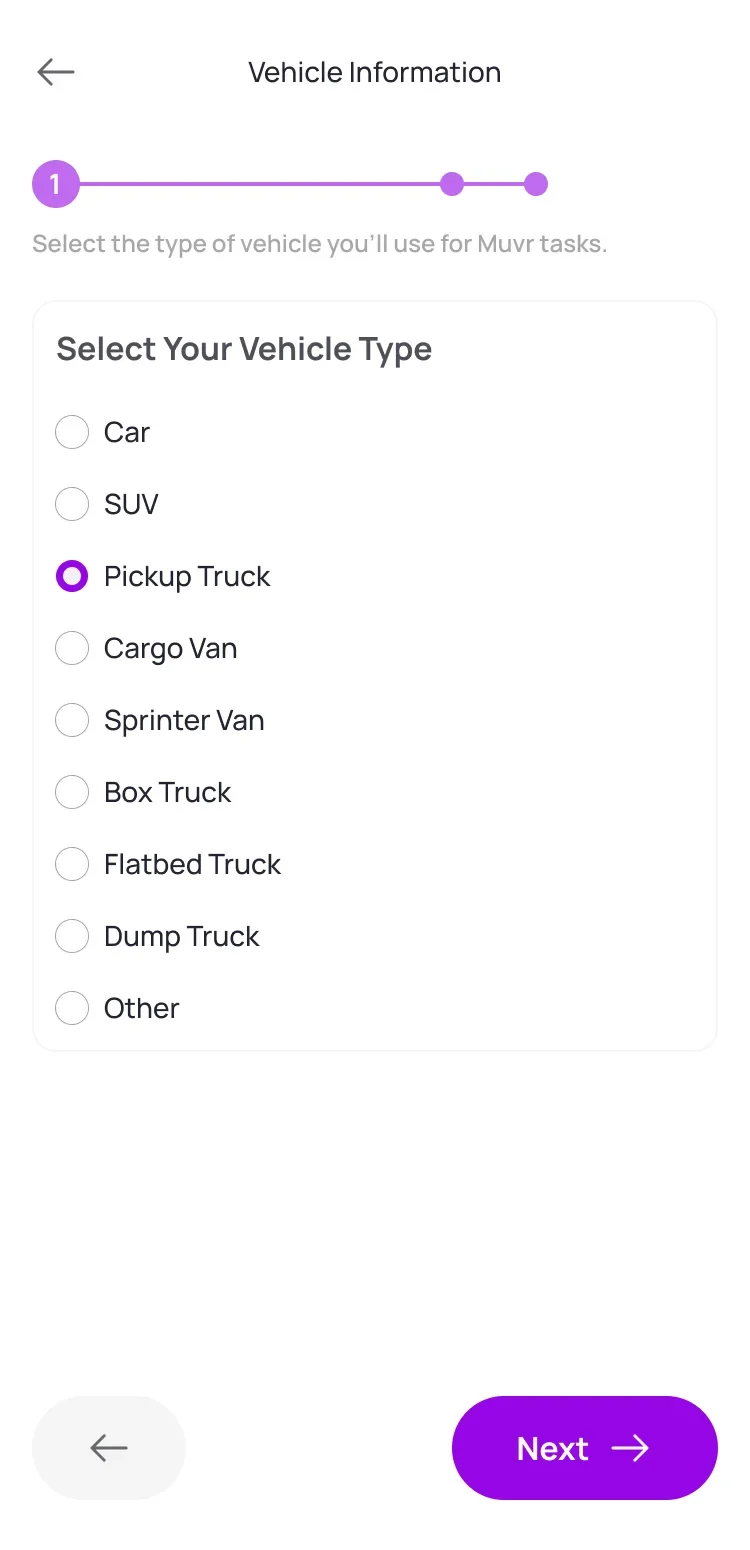
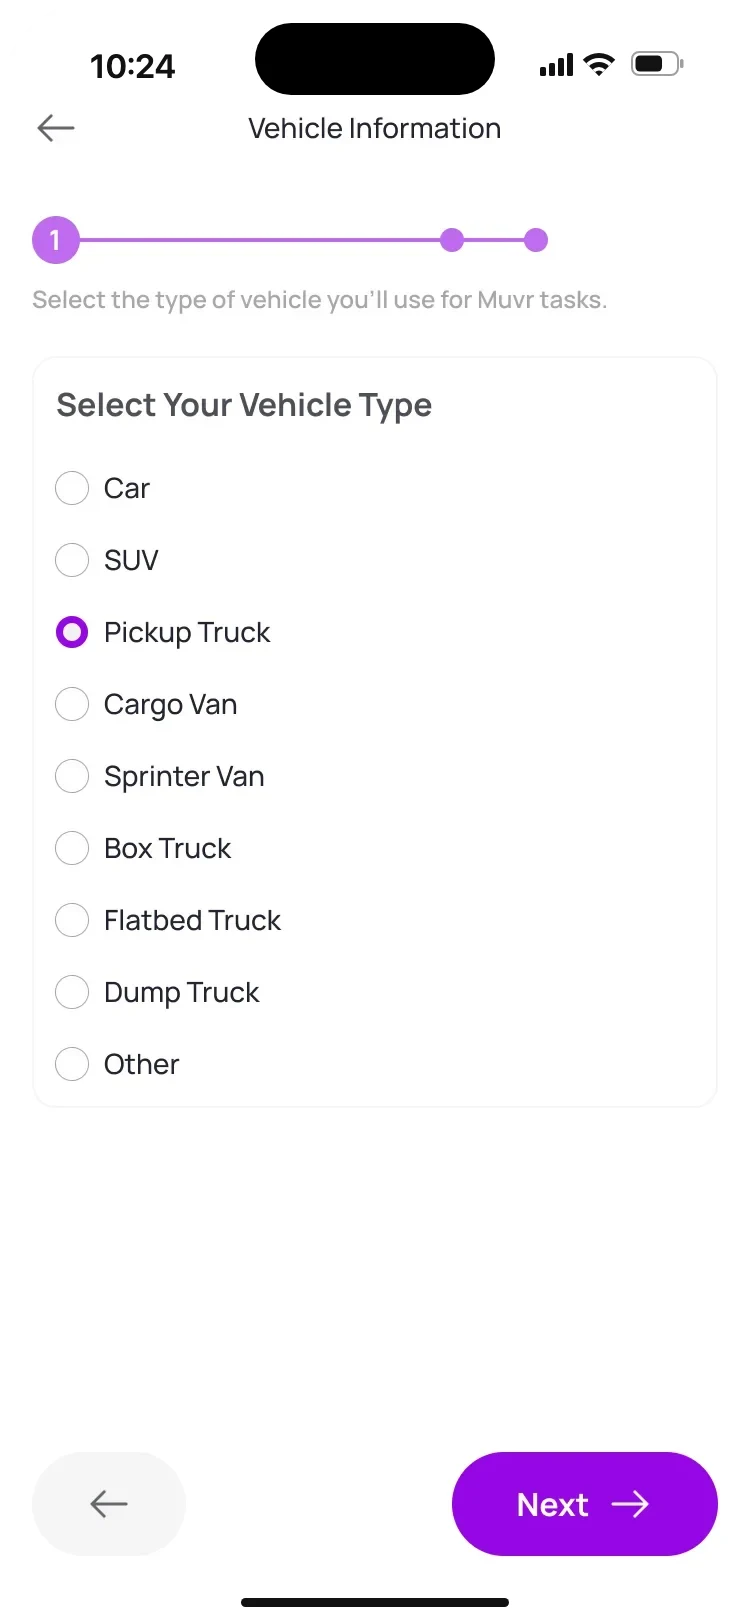
Muvr: iPhone status bar and screen corners, in the Crypex style
Each screen gets a Dynamic Island, a status bar (10:24, a lower battery than
Crypex's), the home indicator and rounded screen corners with transparency,
shown with a drop-shadow that follows the corners. Cover card and share image
re-rendered.

diff --git a/work/muvr.html b/work/muvr.html
@@ -36,7 +36,7 @@
   <link rel="stylesheet" href="../assets/css/identity.css?v=24">
   <link rel="stylesheet" href="../assets/css/case.css?v=1">
   <link rel="stylesheet" href="../assets/css/case-crypex.css?v=3">
-  <link rel="stylesheet" href="../assets/css/case-muvr.css?v=7">
+  <link rel="stylesheet" href="../assets/css/case-muvr.css?v=8">
   <script src="../assets/js/main.js?v=5" defer></script>
   <script src="../assets/js/case-crypex.js?v=6" defer></script>
 </head>
@@ -103,9 +103,9 @@
               <p>One move, two apps</p>
             </div>
             <div class="mv-cover__screens">
-              <img src="../assets/img/muvr/home.webp" width="750" height="1550" alt="User app home: moves grouped as residential and commercial, each with its own illustration.">
-              <img src="../assets/img/muvr/help-home.webp" width="750" height="1550" alt="Driver app help centre: onboarding and tickets tabs, search and six illustrated categories.">
-              <img src="../assets/img/muvr/crew-dashboard-progress.webp" width="750" height="1550" alt="Driver app onboarding dashboard at 60%, with one recommended next step.">
+              <img src="../assets/img/muvr/home.webp" width="750" height="1624" alt="User app home: moves grouped as residential and commercial, each with its own illustration.">
+              <img src="../assets/img/muvr/help-home.webp" width="750" height="1624" alt="Driver app help centre: onboarding and tickets tabs, search and six illustrated categories.">
+              <img src="../assets/img/muvr/crew-dashboard-progress.webp" width="750" height="1624" alt="Driver app onboarding dashboard at 60%, with one recommended next step.">
             </div>
           </div>
         </div>
@@ -371,17 +371,17 @@
             </ul>
           </div>
           <div class="mv-shots mv-shots--3 cx-strip">
-            <img src="../assets/img/muvr/home.webp" width="750" height="1550" alt="Home on the Moves tab: a search field, residential moves (home, apartment, dorm room), commercial moves (office, store, warehouse) and Lift and Shift assistance under more options." loading="lazy">
-            <img src="../assets/img/muvr/search.webp" width="750" height="1550" alt="Search with “loading assistan” typed: the first result is Labor Only, Lift and Shift Assistance, with the matching word highlighted." loading="lazy">
-            <img src="../assets/img/muvr/search-empty.webp" width="750" height="1550" alt="Search with no results: a sad folder illustration, “Oops!” and a short line saying nothing matched." loading="lazy">
+            <img src="../assets/img/muvr/home.webp" width="750" height="1624" alt="Home on the Moves tab: a search field, residential moves (home, apartment, dorm room), commercial moves (office, store, warehouse) and Lift and Shift assistance under more options." loading="lazy">
+            <img src="../assets/img/muvr/search.webp" width="750" height="1624" alt="Search with “loading assistan” typed: the first result is Labor Only, Lift and Shift Assistance, with the matching word highlighted." loading="lazy">
+            <img src="../assets/img/muvr/search-empty.webp" width="750" height="1624" alt="Search with no results: a sad folder illustration, “Oops!” and a short line saying nothing matched." loading="lazy">
           </div>
         </article>
 
         <!-- F2 · Move types -->
         <article class="cx-feature cx-feature--flip">
           <div class="cx-feature__shots">
-            <img src="../assets/img/muvr/type-home.webp" width="750" height="1550" alt="Home Move: a one-line description, “Where are you moving from?” and a table comparing Standard, Premium and White-Glove." loading="lazy">
-            <img src="../assets/img/muvr/type-labor.webp" width="750" height="1550" alt="Labor-Only page: rows for rearranging, furniture and floor protection and staged placement." loading="lazy">
+            <img src="../assets/img/muvr/type-home.webp" width="750" height="1624" alt="Home Move: a one-line description, “Where are you moving from?” and a table comparing Standard, Premium and White-Glove." loading="lazy">
+            <img src="../assets/img/muvr/type-labor.webp" width="750" height="1624" alt="Labor-Only page: rows for rearranging, furniture and floor protection and staged placement." loading="lazy">
           </div>
           <div class="cx-feature__text">
             <p class="cx-label">Move types</p>
@@ -398,8 +398,8 @@
         <!-- F3 · Buildings -->
         <article class="cx-feature">
           <div class="cx-feature__shots">
-            <img src="../assets/img/muvr/pickup-apartment.webp" width="750" height="1556" alt="Pickup details for an apartment: unit number 57B, access by elevator and a time window from 8 am to 6 pm." loading="lazy">
-            <img src="../assets/img/muvr/dropoff-warehouse.webp" width="750" height="2052" alt="Drop-off details for a warehouse: both addresses on top, 9th floor by freight elevator, access hours from 8 am to 6 pm and a note about pre-scheduled loading dock slots." loading="lazy">
+            <img src="../assets/img/muvr/pickup-apartment.webp" width="750" height="1630" alt="Pickup details for an apartment: unit number 57B, access by elevator and a time window from 8 am to 6 pm." loading="lazy">
+            <img src="../assets/img/muvr/dropoff-warehouse.webp" width="750" height="2126" alt="Drop-off details for a warehouse: both addresses on top, 9th floor by freight elevator, access hours from 8 am to 6 pm and a note about pre-scheduled loading dock slots." loading="lazy">
           </div>
           <div class="cx-feature__text">
             <p class="cx-label">Booking · steps 1 and 3</p>
@@ -415,8 +415,8 @@
         <!-- F4 · Items -->
         <article class="cx-feature cx-feature--flip">
           <div class="cx-feature__shots">
-            <img src="../assets/img/muvr/items-two.webp" width="750" height="1550" alt="Home layout with two floors and four bedrooms, and two items listed, a refrigerator and a washing machine, each with its size and a 200 to 300 lbs weight range." loading="lazy">
-            <img src="../assets/img/muvr/items-remove.webp" width="750" height="1550" alt="A dialog over the list: Remove Item. Are you sure you want to remove the refrigerator from your listing? No, and Yes, I’m sure." loading="lazy">
+            <img src="../assets/img/muvr/items-two.webp" width="750" height="1624" alt="Home layout with two floors and four bedrooms, and two items listed, a refrigerator and a washing machine, each with its size and a 200 to 300 lbs weight range." loading="lazy">
+            <img src="../assets/img/muvr/items-remove.webp" width="750" height="1624" alt="A dialog over the list: Remove Item. Are you sure you want to remove the refrigerator from your listing? No, and Yes, I’m sure." loading="lazy">
           </div>
           <div class="cx-feature__text">
             <p class="cx-label">Booking · step 2</p>
@@ -465,8 +465,8 @@
         <!-- D1 · Sign in -->
         <article class="cx-feature">
           <div class="cx-feature__shots">
-            <img src="../assets/img/muvr/login.webp" width="750" height="1550" alt="Get started with Muvr: a mobile number field with a country picker, Continue, and a Find my account link for people who changed their number." loading="lazy">
-            <img src="../assets/img/muvr/login-found.webp" width="750" height="1550" alt="“Is this you?” sheet: an existing account was found for that number, with the driver’s name, a Yes, it’s me button and No, this is not me." loading="lazy">
+            <img src="../assets/img/muvr/login.webp" width="750" height="1624" alt="Get started with Muvr: a mobile number field with a country picker, Continue, and a Find my account link for people who changed their number." loading="lazy">
+            <img src="../assets/img/muvr/login-found.webp" width="750" height="1624" alt="“Is this you?” sheet: an existing account was found for that number, with the driver’s name, a Yes, it’s me button and No, this is not me." loading="lazy">
           </div>
           <div class="cx-feature__text">
             <p class="cx-label">Sign-in and sign-up</p>
@@ -482,8 +482,8 @@
         <!-- D2 · Roles -->
         <article class="cx-feature cx-feature--flip">
           <div class="cx-feature__shots">
-            <img src="../assets/img/muvr/crew-welcome.webp" width="750" height="1550" alt="Welcome, John: a friendly character with flags, a short note about completing onboarding and an identity check, and a Begin button." loading="lazy">
-            <img src="../assets/img/muvr/crew-roles.webp" width="750" height="2834" alt="Role selection: Mover, Hauler and Courier, with the Mover card expanded to explain what a mover does, the requirements, and driver versus helper." loading="lazy">
+            <img src="../assets/img/muvr/crew-welcome.webp" width="750" height="1624" alt="Welcome, John: a friendly character with flags, a short note about completing onboarding and an identity check, and a Begin button." loading="lazy">
+            <img src="../assets/img/muvr/crew-roles.webp" width="750" height="2908" alt="Role selection: Mover, Hauler and Courier, with the Mover card expanded to explain what a mover does, the requirements, and driver versus helper." loading="lazy">
           </div>
           <div class="cx-feature__text">
             <p class="cx-label">Roles</p>
@@ -499,8 +499,8 @@
         <!-- D3 · Dashboard -->
         <article class="cx-feature">
           <div class="cx-feature__shots">
-            <img src="../assets/img/muvr/crew-dashboard-progress.webp" width="750" height="1550" alt="Onboarding dashboard at 60%: three items left, the certificate of insurance recommended next, and optional and completed sections folded away." loading="lazy">
-            <img src="../assets/img/muvr/crew-accepted-popup.webp" width="750" height="1550" alt="Dashboard with a pop-up: Accepted Submission. Your Lifting Video submission has been verified and accepted, with See Updates." loading="lazy">
+            <img src="../assets/img/muvr/crew-dashboard-progress.webp" width="750" height="1624" alt="Onboarding dashboard at 60%: three items left, the certificate of insurance recommended next, and optional and completed sections folded away." loading="lazy">
+            <img src="../assets/img/muvr/crew-accepted-popup.webp" width="750" height="1624" alt="Dashboard with a pop-up: Accepted Submission. Your Lifting Video submission has been verified and accepted, with See Updates." loading="lazy">
           </div>
           <div class="cx-feature__text">
             <p class="cx-label">Onboarding dashboard</p>
@@ -520,9 +520,9 @@
             <p>A vehicle is a short form, safety gear is a checklist and skills are switches. Each requirement asks in the way that fits what it proves, with the same header, progress and buttons around it.</p>
           </div>
           <div class="mv-gallery mv-gallery--3 cx-strip">
-            <figure><img src="../assets/img/muvr/req-vehicle.webp" width="750" height="1550" alt="Vehicle information, step one: a list of vehicle types with Pickup Truck selected." loading="lazy"><figcaption><b>Vehicle</b><span>Type first, details next</span></figcaption></figure>
-            <figure><img src="../assets/img/muvr/req-equipment.webp" width="750" height="1632" alt="Essential equipment checklist for movers: 4-wheel dolly, hand truck, lifting straps, furniture blankets, stretch wrap and a disassembly kit, all ticked." loading="lazy"><figcaption><b>Equipment</b><span>A checklist, then a photo</span></figcaption></figure>
-            <figure><img src="../assets/img/muvr/req-skills.webp" width="750" height="1912" alt="Highlight your skills: core skills as switches, with stairs navigation, fragile items, communication and loading switched on." loading="lazy"><figcaption><b>Skills</b><span>Switches, grouped by service</span></figcaption></figure>
+            <figure><img src="../assets/img/muvr/req-vehicle.webp" width="750" height="1624" alt="Vehicle information, step one: a list of vehicle types with Pickup Truck selected." loading="lazy"><figcaption><b>Vehicle</b><span>Type first, details next</span></figcaption></figure>
+            <figure><img src="../assets/img/muvr/req-equipment.webp" width="750" height="1706" alt="Essential equipment checklist for movers: 4-wheel dolly, hand truck, lifting straps, furniture blankets, stretch wrap and a disassembly kit, all ticked." loading="lazy"><figcaption><b>Equipment</b><span>A checklist, then a photo</span></figcaption></figure>
+            <figure><img src="../assets/img/muvr/req-skills.webp" width="750" height="1986" alt="Highlight your skills: core skills as switches, with stairs navigation, fragile items, communication and loading switched on." loading="lazy"><figcaption><b>Skills</b><span>Switches, grouped by service</span></figcaption></figure>
           </div>
         </article>
 
@@ -533,9 +533,9 @@
             <p>The same moments repeat across the eight requirements that need a review, so drivers learn the pattern once. Waiting has a shape, good news gets a small celebration and a decline is never a dead end.</p>
           </div>
           <div class="mv-gallery mv-gallery--3 cx-strip">
-            <figure><img src="../assets/img/muvr/st-verifying.webp" width="750" height="1550" alt="Lifting video under review: an illustration of a character with a video, and a note that the review takes 24 to 48 hours." loading="lazy"><figcaption><b>In review</b><span>24 to 48 hours, then a notification</span></figcaption></figure>
-            <figure><img src="../assets/img/muvr/st-accepted.webp" width="750" height="1550" alt="Driver’s licence verified: a character waving flags and Verification Completed with a green badge." loading="lazy"><figcaption><b>Accepted</b><span>A small celebration</span></figcaption></figure>
-            <figure><img src="../assets/img/muvr/crew-declined.webp" width="750" height="1550" alt="Declined profile photo: a short explanation, a link to the decline report, Help and Retake Submission." loading="lazy"><figcaption><b>Declined</b><span>A report, and a retake</span></figcaption></figure>
+            <figure><img src="../assets/img/muvr/st-verifying.webp" width="750" height="1624" alt="Lifting video under review: an illustration of a character with a video, and a note that the review takes 24 to 48 hours." loading="lazy"><figcaption><b>In review</b><span>24 to 48 hours, then a notification</span></figcaption></figure>
+            <figure><img src="../assets/img/muvr/st-accepted.webp" width="750" height="1624" alt="Driver’s licence verified: a character waving flags and Verification Completed with a green badge." loading="lazy"><figcaption><b>Accepted</b><span>A small celebration</span></figcaption></figure>
+            <figure><img src="../assets/img/muvr/crew-declined.webp" width="750" height="1624" alt="Declined profile photo: a short explanation, a link to the decline report, Help and Retake Submission." loading="lazy"><figcaption><b>Declined</b><span>A report, and a retake</span></figcaption></figure>
           </div>
         </article>
 
@@ -550,10 +550,10 @@
             </ul>
           </div>
           <div class="mv-gallery cx-strip">
-            <figure><img src="../assets/img/muvr/help-home.webp" width="750" height="1550" alt="Help centre home: onboarding and tickets tabs, a search field and six illustrated categories." loading="lazy"><figcaption><b>Home</b><span>Search and illustrated topics</span></figcaption></figure>
-            <figure><img src="../assets/img/muvr/help-categories.webp" width="750" height="1550" alt="All categories as a list: onboarding, roles, tickets and contact, requirements, optionals and verification, then Contact Us." loading="lazy"><figcaption><b>Categories</b><span>Named after onboarding</span></figcaption></figure>
-            <figure><img src="../assets/img/muvr/help-article.webp" width="750" height="1808" alt="Article: Changing your role, with steps to change it, whether you can keep more than one role, and Was this helpful?" loading="lazy"><figcaption><b>Article</b><span>One question, one answer</span></figcaption></figure>
-            <figure><img src="../assets/img/muvr/help-tickets.webp" width="750" height="1550" alt="Ticket history grouped by date: payout, vehicle details, a COI question and a role change, each with its status." loading="lazy"><figcaption><b>Tickets</b><span>Status at a glance</span></figcaption></figure>
+            <figure><img src="../assets/img/muvr/help-home.webp" width="750" height="1624" alt="Help centre home: onboarding and tickets tabs, a search field and six illustrated categories." loading="lazy"><figcaption><b>Home</b><span>Search and illustrated topics</span></figcaption></figure>
+            <figure><img src="../assets/img/muvr/help-categories.webp" width="750" height="1624" alt="All categories as a list: onboarding, roles, tickets and contact, requirements, optionals and verification, then Contact Us." loading="lazy"><figcaption><b>Categories</b><span>Named after onboarding</span></figcaption></figure>
+            <figure><img src="../assets/img/muvr/help-article.webp" width="750" height="1882" alt="Article: Changing your role, with steps to change it, whether you can keep more than one role, and Was this helpful?" loading="lazy"><figcaption><b>Article</b><span>One question, one answer</span></figcaption></figure>
+            <figure><img src="../assets/img/muvr/help-tickets.webp" width="750" height="1624" alt="Ticket history grouped by date: payout, vehicle details, a COI question and a role change, each with its status." loading="lazy"><figcaption><b>Tickets</b><span>Status at a glance</span></figcaption></figure>
           </div>
         </article>
 

diff --git a/assets/css/case-muvr.css b/assets/css/case-muvr.css
@@ -19,7 +19,7 @@
 .mv-cover__brand img { width: clamp(84px, 9vw, 128px); height: auto; }
 .mv-cover__brand p { font-family: var(--font-mono); font-size: 11px; letter-spacing: var(--tracking-wide); text-transform: uppercase; color: rgba(255, 255, 255, 0.86); }
 .mv-cover__screens { position: absolute; left: 43%; right: 4%; top: 9%; bottom: -30%; display: grid; grid-template-columns: repeat(3, minmax(0, 1fr)); gap: 4%; align-items: start; }
-.mv-cover__screens img { width: 100%; height: auto; border-radius: 9% / 4.2%; box-shadow: 0 22px 36px -12px rgba(60, 10, 100, 0.28), 0 2px 6px rgba(22, 21, 15, 0.06); }
+.mv-cover__screens img { width: 100%; height: auto; filter: drop-shadow(0 22px 28px rgba(60, 10, 100, 0.24)); }
 .mv-cover__screens img:nth-child(2) { margin-top: -9%; }
 .mv-cover__screens img:nth-child(3) { margin-top: 6%; }
 
@@ -30,14 +30,14 @@
 
 /* ---------- Screens: the screen itself, rounded, with a soft shadow (no device, no outline) ---------- */
 .mv .cx-strip img, .mv .cx-feature__shots img {
-  border: 0; border-radius: clamp(14px, 1.8vw, 26px); background: #FFFFFF;
-  box-shadow: 0 18px 32px -14px rgba(40, 20, 70, 0.22), 0 2px 6px rgba(22, 21, 15, 0.05); filter: none;
+  border: 0; border-radius: 0; background: none; box-shadow: none;
+  filter: drop-shadow(0 14px 20px rgba(40, 20, 70, 0.16));
 }
 .mv .cx-feature__shots, .mv-shots, .mv-gallery { border: 1px solid var(--color-border); border-radius: var(--radius-3); background: #F3EEF9; }
 .mv-app--driver .cx-feature__shots, .mv-app--driver .mv-gallery, .mv-app--driver .mv-shots { background: #EDF6F2; }
 .mv .cx-feature__shots { align-items: start; gap: var(--sp-6); padding: var(--sp-7) var(--sp-6); }
 @media (hover: hover) and (pointer: fine) {
-  .mv .cx-strip img:hover, .mv .cx-feature__shots img:hover { transform: translateY(-4px); box-shadow: 0 24px 40px -14px rgba(40, 20, 70, 0.3), 0 2px 6px rgba(22, 21, 15, 0.05); filter: none; }
+  .mv .cx-strip img:hover, .mv .cx-feature__shots img:hover { transform: translateY(-4px); box-shadow: none; filter: drop-shadow(0 18px 24px rgba(40, 20, 70, 0.22)); }
 }
 
 /* ---------- Overview: the two ends, side by side ---------- */
@@ -227,7 +227,6 @@
   .mv .cx-feature__shots { padding: var(--sp-5) var(--sp-4); gap: var(--sp-4); }
   .mv-stickies { grid-template-columns: 1fr; }
   .mv-canvas { padding: var(--sp-4); }
-  .mv .cx-strip img, .mv .cx-feature__shots img { border-radius: 12px; }
   .mv-gallery, .mv-gallery--3 { gap: var(--sp-4); padding: var(--sp-5) var(--sp-4); }
   .case-cover .mv-cover { background: linear-gradient(180deg, var(--mv-purple) 0 24%, #F3EAFD 24% 100%); }
   .mv-cover__brand { width: auto; right: 0; bottom: auto; height: 24%; }

diff --git a/index.html b/index.html
@@ -197,7 +197,7 @@
               <span class="frame__label"><b>Case 01</b> Moving marketplace <span class="dim">2 apps · 2025</span></span>
               <span class="frame__handles"><span></span></span>
               <div class="case__thumb">
-                <img src="assets/img/muvr/cover-card.webp?v=4" width="1200" height="750" alt="" loading="lazy" style="position: absolute; inset: 0; width: 100%; height: 100%; object-fit: cover;">
+                <img src="assets/img/muvr/cover-card.webp?v=5" width="1200" height="750" alt="" loading="lazy" style="position: absolute; inset: 0; width: 100%; height: 100%; object-fit: cover;">
                 <div class="spec" style="left: 4%; bottom: 8%;">2 APPS · REVAMP</div>
               </div>
               <div class="case__body">
@@ -218,7 +218,7 @@
               <span class="frame__label"><b>Case 02</b> Crypto payments <span class="dim">iOS app · 0 → 1</span></span>
               <span class="frame__handles"><span></span></span>
               <div class="case__thumb">
-                <img class="crypex" src="assets/img/crypex/cover-card.webp?v=4" width="1200" height="750" alt="" loading="lazy">
+                <img class="crypex" src="assets/img/crypex/cover-card.webp?v=5" width="1200" height="750" alt="" loading="lazy">
                 <div class="spec" style="right: 4%; bottom: 8%;">0 → 1 · DESIGN COMPLETE</div>
               </div>
               <div class="case__body">
